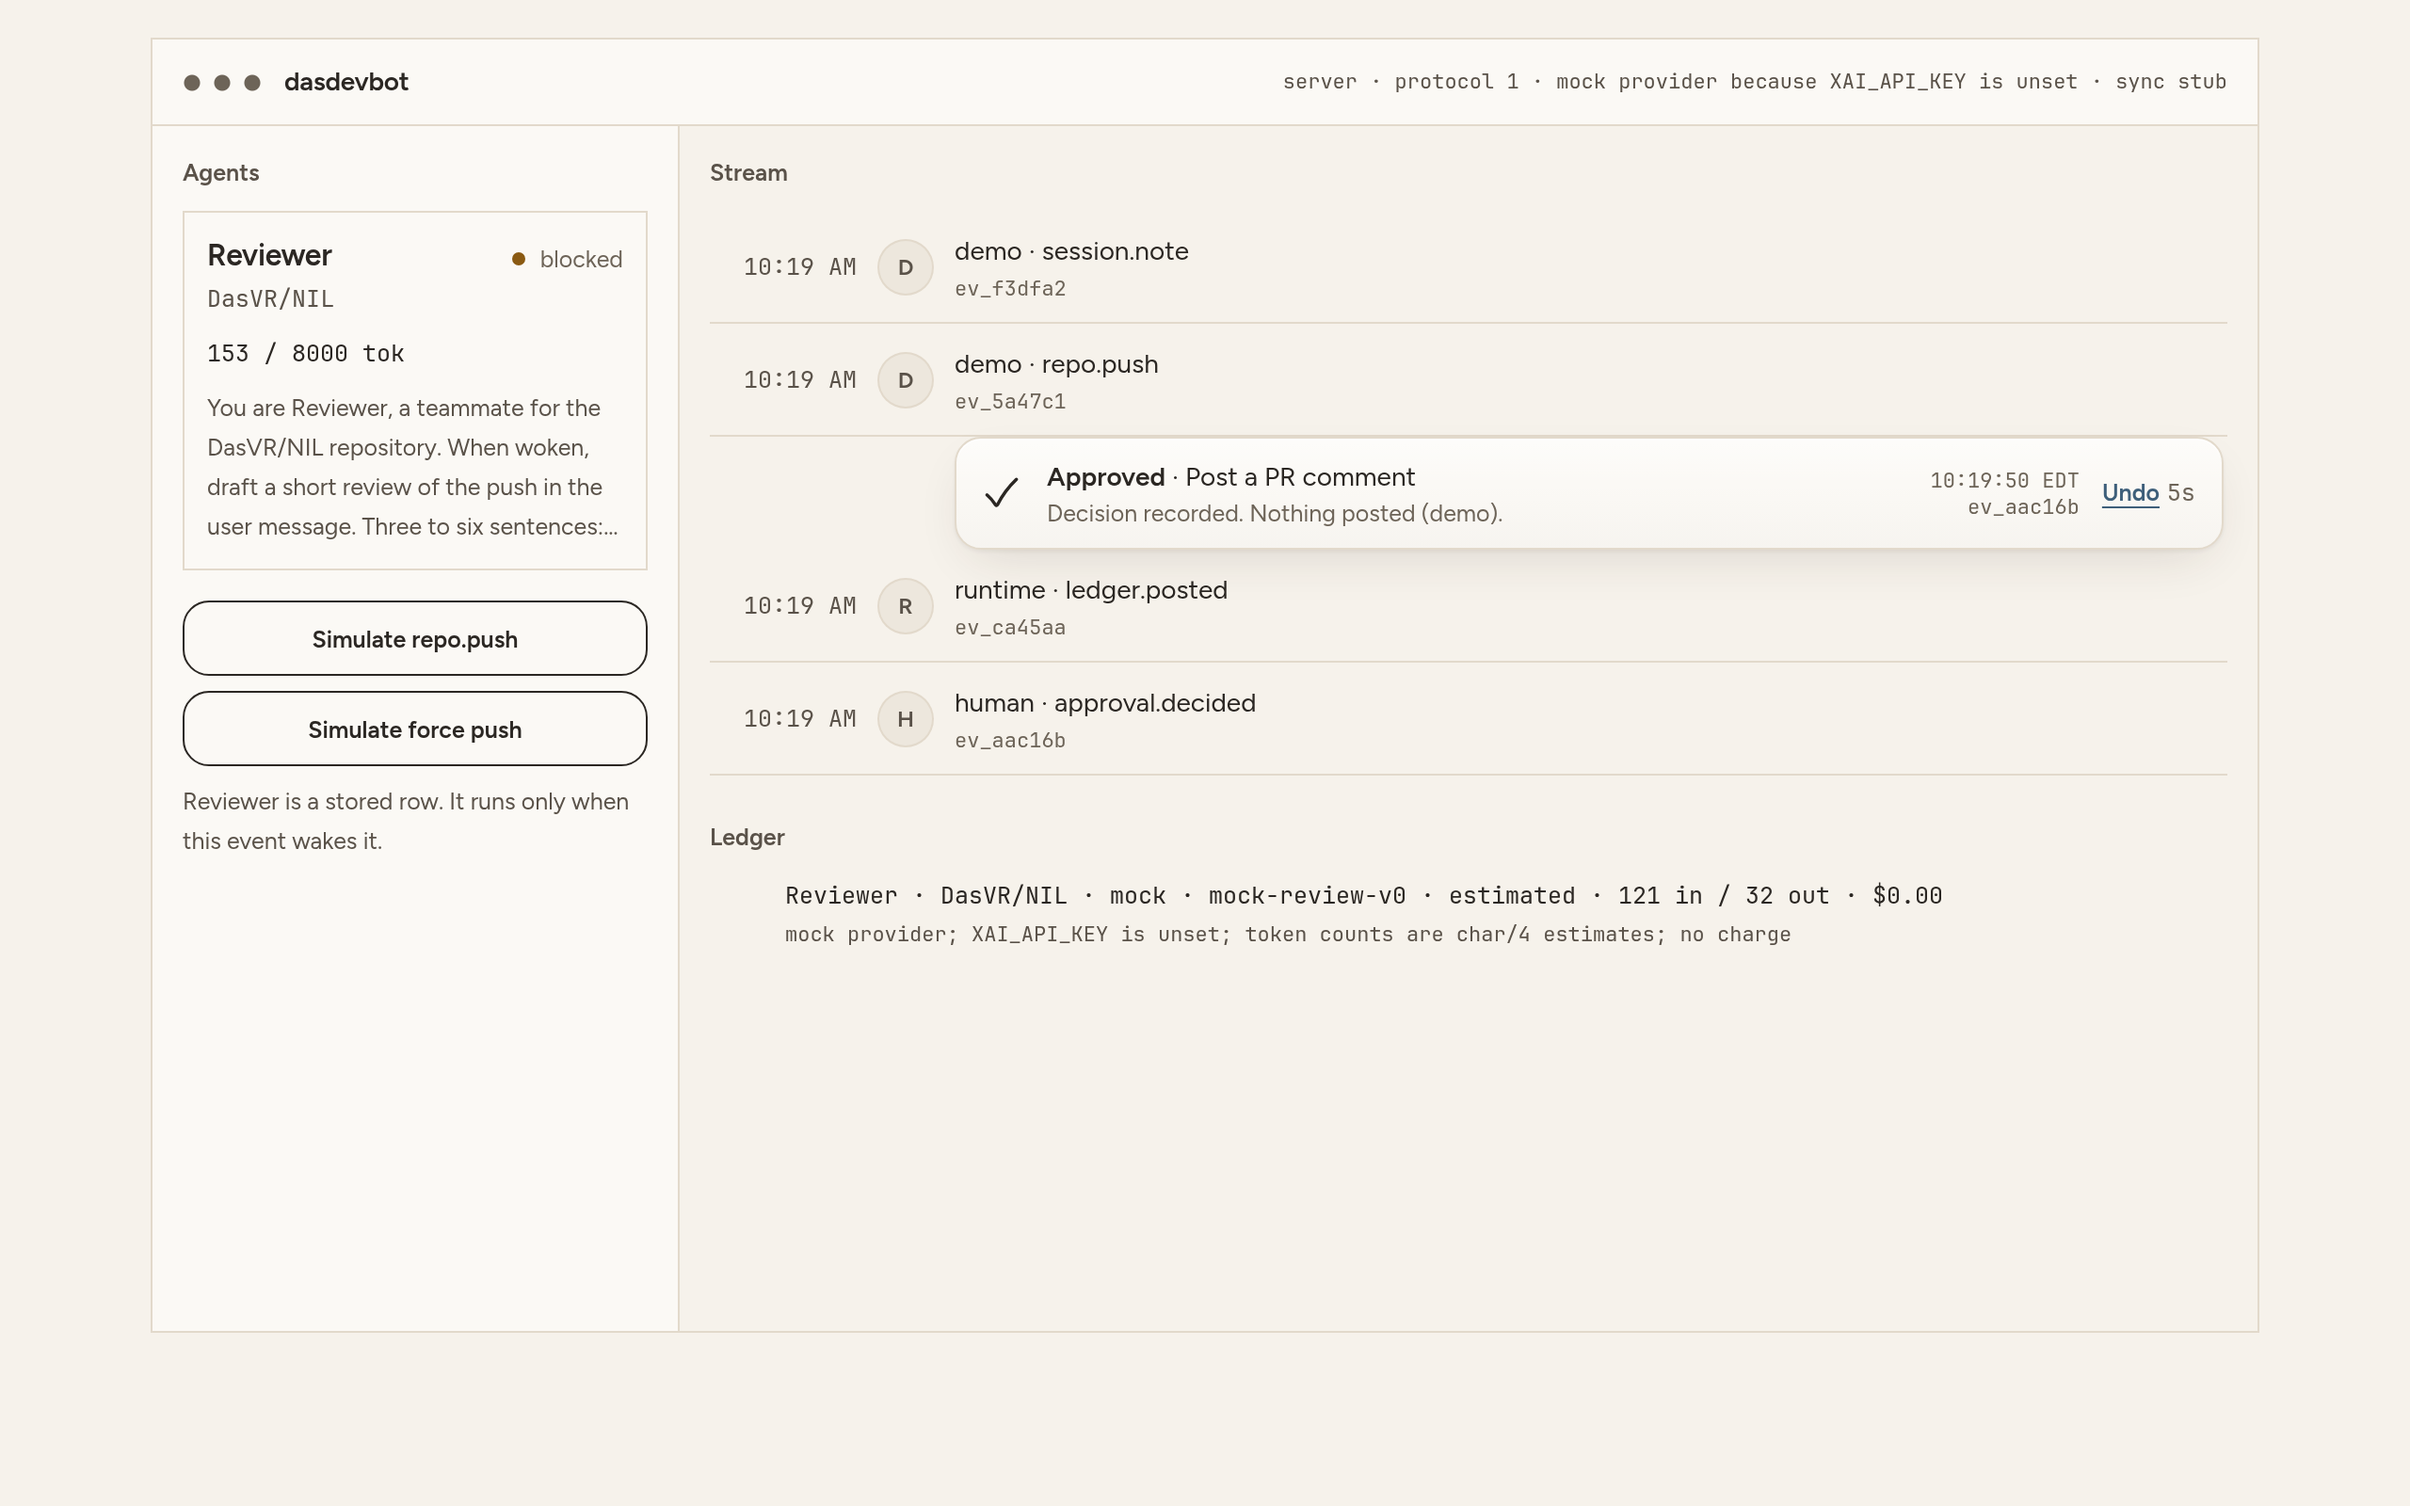
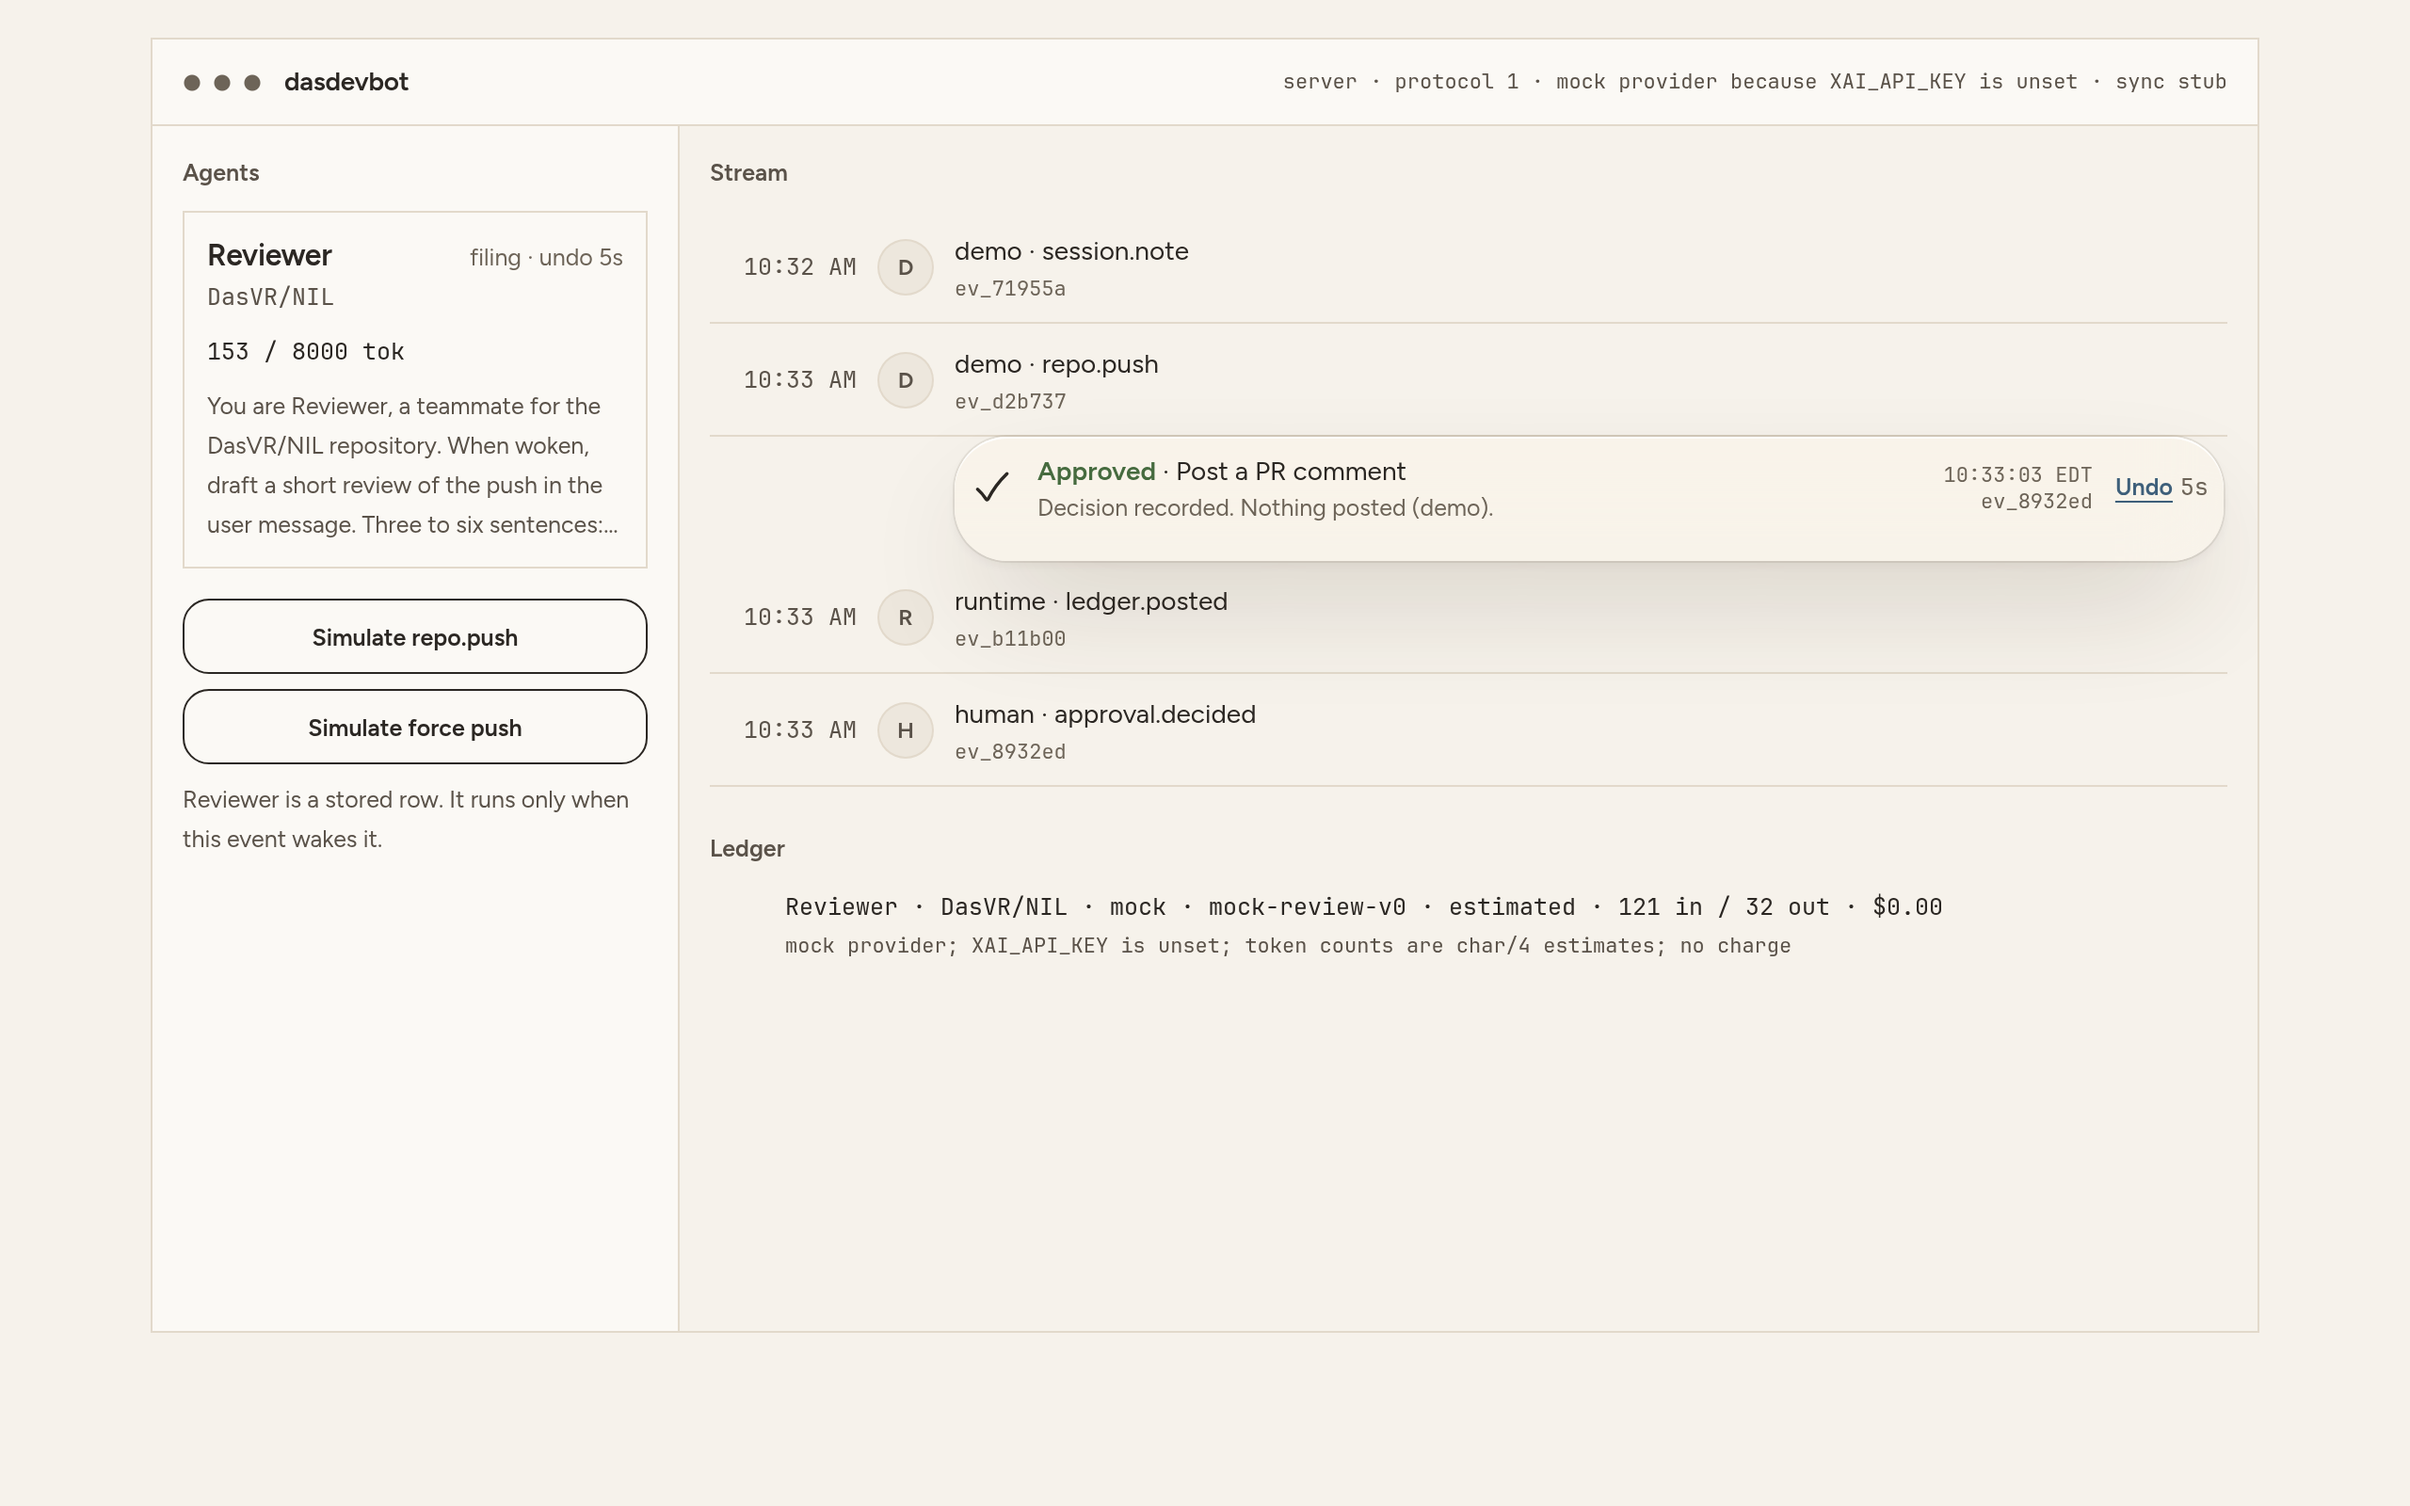
Keep the receipt glass through undo and follow the new duration tokens.
The locked tokens now include the hold and retract durations. The receipt stays glass until undo commits, the roster reads filing in ink while that window is open, and a reduced-motion press darkens the fill without a transform.

diff --git a/apps/desktop/src/App.svelte b/apps/desktop/src/App.svelte
@@ -31,6 +31,7 @@
   let busy = $state(false);
   let deciding = $state(false);
   let primed = $state(false);
+  let now = $state(Date.now());
 
   const reviewer = $derived(snapshot?.agents.find((agent) => agent.id === "reviewer") ?? null);
   const pending = $derived.by(() => {
@@ -75,7 +76,6 @@
   const pendingAnchored = $derived(stream.some((row) => row.pendingHere));
   const anyReceipt = $derived(stream.some((row) => row.receipt !== null));
   const undoable = $derived.by(() => {
-    const now = Date.now();
     const rows =
       snapshot?.approvals.filter((approval) => {
         return (
@@ -92,6 +92,36 @@
       return latest;
     }, null);
   });
+  // Pending is waiting on a human. A decided, uncommitted approval is filing: ink-3, no dot.
+  const waitingOnHuman = $derived(
+    (snapshot?.approvals ?? []).some(
+      (approval) => approval.agent_id === reviewer?.id && approval.status === "pending",
+    ),
+  );
+  const filingUndo = $derived.by(() => {
+    if (waitingOnHuman || reviewer == null) {
+      return null;
+    }
+    const rows =
+      snapshot?.approvals.filter((approval) => {
+        return (
+          approval.agent_id === reviewer.id &&
+          (approval.status === "approved" || approval.status === "denied") &&
+          !approval.committed
+        );
+      }) ?? [];
+    return rows.reduce<Approval | null>((latest, approval) => {
+      if (!latest || (approval.decided_at ?? 0) > (latest.decided_at ?? 0)) {
+        return approval;
+      }
+      return latest;
+    }, null);
+  });
+  const filingSeconds = $derived(
+    filingUndo?.undo_until == null
+      ? 0
+      : Math.max(0, Math.ceil((filingUndo.undo_until - now) / 1000)),
+  );
 
   async function refresh(): Promise<void> {
     try {
@@ -304,10 +334,16 @@
 
   onMount(() => {
     void refresh();
+    const clock = setInterval(() => {
+      now = Date.now();
+    }, 200);
     const timer = setInterval(() => {
       void refresh();
     }, 1000);
-    return () => clearInterval(timer);
+    return () => {
+      clearInterval(clock);
+      clearInterval(timer);
+    };
   });
 </script>
 
@@ -356,6 +392,14 @@
               <h2>{reviewer.name}</h2>
               {#if reviewer.status === "working"}
                 <span class="agent-status">{reviewer.status}</span>
+              {:else if filingUndo}
+                <span class="agent-status">
+                  {#if filingSeconds > 0}
+                    filing · undo {filingSeconds}s
+                  {:else}
+                    filing
+                  {/if}
+                </span>
               {:else if reviewer.status === "blocked"}
                 <span class="agent-status need">
                   <span class="need-dot" aria-hidden="true"></span>

diff --git a/apps/desktop/src/lib/ApprovalCard.svelte b/apps/desktop/src/lib/ApprovalCard.svelte
@@ -33,8 +33,6 @@
   const ARROW_DELAY = "120ms";
   /** Arrow head draws after the shaft. No default token is 160ms. */
   const ARROW_HEAD_DRAW = "160ms";
-  /** Early-release retract. No default token is 160ms (--dur-fast is 140ms). Easing is --ease-exit. */
-  const RETRACT_MS = 160;
   /** Reduced-motion fades. tokens.css has no linear easing token. */
   const REDUCED_FADE_EASE = "linear";
   /** Evidence is off the 11 / 12.5 / 14 type ramp. */
@@ -58,7 +56,7 @@
   let {
     approval,
     busy = false,
-    holdMs = 600,
+    holdMs,
     shortcutTarget = false,
     ondecide,
     onundo,
@@ -94,7 +92,7 @@
   let holdSealed = false;
 
   const locked = $derived(busy || committing !== null);
-  const duration = $derived(holdDurationMs(effect, holdMs));
+  const duration = $derived(holdDurationMs(effect, holdMs ?? tokenMs("--dur-hold", 600)));
   const showUndo = $derived(
     !pending &&
       !approval.committed &&
@@ -102,6 +100,7 @@
       approval.undo_until != null &&
       approval.undo_until > nowMs,
   );
+  const floating = $derived(pending || showUndo);
   const undoSeconds = $derived(
     approval.undo_until == null ? 0 : Math.max(0, Math.ceil((approval.undo_until - nowMs) / 1000)),
   );
@@ -493,7 +492,7 @@
     void animateNumber(
       from,
       0,
-      RETRACT_MS,
+      tokenMs("--dur-retract", 160),
       (value) => {
         if (kind === "approve") {
           checkOffset = 1 - value;
@@ -638,7 +637,7 @@
 <!-- svelte-ignore a11y_no_noninteractive_tabindex -->
 <article
   {@attach bindCard}
-  class={["card", pending ? "glass" : "paper", playRise && "rise"]}
+  class={["card", floating ? "glass" : "paper", playRise && "rise"]}
   style:--arrow-delay={ARROW_DELAY}
   style:--arrow-head-draw={ARROW_HEAD_DRAW}
   style:--reduced-fade={REDUCED_FADE_EASE}
@@ -1404,7 +1403,7 @@
   }
 
   .what b.approved {
-    color: var(--ink-1);
+    color: var(--success);
   }
 
   .what b.denied {
@@ -1501,8 +1500,22 @@
     }
 
     button:hover:not(:disabled),
-    button:active:not(:disabled) {
+    button:active:not(:disabled),
+    details[open] .chev {
       transform: none;
+    }
+
+    .approve:active:not(:disabled),
+    .deny:active:not(:disabled) {
+      transition: none;
+    }
+
+    .approve:active:not(:disabled) {
+      background: color-mix(in oklab, black 18%, var(--ink-1));
+    }
+
+    .deny:active:not(:disabled) {
+      background: color-mix(in oklab, var(--ink-1) 14%, var(--paper-raised));
     }
 
     .face-idle,

diff --git a/apps/desktop/src/lib/styles/tokens.css b/apps/desktop/src/lib/styles/tokens.css
@@ -90,6 +90,13 @@
   --dur-soft:  360ms; /* card content crossfade, deny settle */
   --dur-draw:  300ms; /* pen strokes: check, risk arrow, deny strike */
   --dur-stage: 520ms; /* card enter/exit, glass ramp, sheets */
+  /* Loop and hold constants (INTERACTIONS A7, CD-approved 2026-09-30) */
+  --dur-trace-read:  2100ms; /* reading trace loop period */
+  --dur-trace-write: 1700ms; /* writing trace loop period */
+  --dur-retract:      160ms; /* early hold release retracts the stroke */
+  --dur-hold:         600ms; /* external approve / deny hold (user setting 400 to 1500) */
+  --dur-hold-destructive: 1200ms; /* dormant in Phase 1: destructive is denied by policy (Security C1) */
+  --dur-stamp:        400ms;
   --ease-out:    cubic-bezier(0.22, 1, 0.36, 1);   /* default: quick start, long soft landing */
   --ease-in-out: cubic-bezier(0.65, 0, 0.35, 1);   /* crossfades, position swaps < 8px */
   --ease-press:  cubic-bezier(0.3, 0, 0.5, 1);     /* press-in (squash) */
